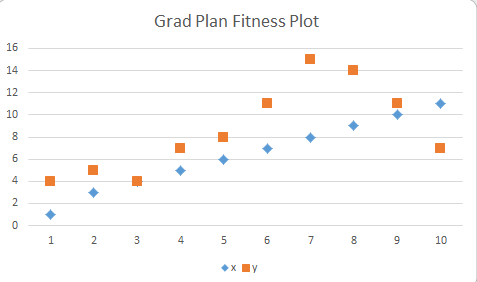
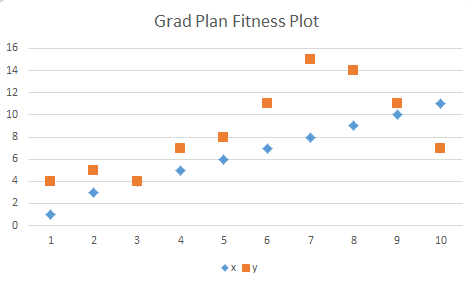
Layout changes, updated pics
Updated layout and updated pictures. Changed v1 and v2 images to remove
borders.

diff --git a/views/view2.html b/views/view2.html
@@ -1,16 +1,37 @@
 <!--view2.html-->
 
 <div id="graphs" class="row align-middle">
-    <div class="medium-12 small-12 columns" align="center">
-        <h3 >Plans Scatter Plot</h3>  
+  <div class="media-object stack-for-small">
+    <div class="media-object-section middle align-self-center"> 
+      <div class="thumbnail">
         <image src="views/pictures/fakeGraph1.png"/>
+      </div>
     </div>
-    <div class="medium-6 small-6 columns" align="center">
-        <h3>Optimum Schedule Fitness</h3>  
+    <div class="media-object-section main-section">
+      <h3 align="center">Plans Scatter Plot</h3>  
+      <p>Lorem ipsum dolor sit amet, consectetur adipiscing elit, sed do eiusmod tempor incididunt ut labore et dolore magna aliqua. Ut enim ad minim veniam, quis nostrud exercitation ullamco laboris nisi ut aliquip ex ea commodo consequat. Duis aute irure dolor in reprehenderit in voluptate velit esse cillum dolore eu fugiat nulla pariatur. Excepteur sint occaecat cupidatat non proident, sunt in culpa qui officia deserunt mollit anim id est laborum.</p>
+    </div>
+  </div>
+  <div class="media-object stack-for-small">
+    <div class="media-object-section middle">
+      <div class="thumbnail">
         <image src="views/pictures/fakeGraph2.png"/>
+      </div>
     </div>
-    <div class="medium-6 small-6 columns" align="center">
-        <h3 >Workload by quarter</h3>  
+    <div class="media-object-section main-section">
+      <h3 align="middle">Optimum Plan Fitness</h3>  
+      <p>Lorem ipsum dolor sit amet, consectetur adipiscing elit, sed do eiusmod tempor incididunt ut labore et dolore magna aliqua. Ut enim ad minim veniam, quis nostrud exercitation ullamco laboris nisi ut aliquip ex ea commodo consequat. Duis aute irure dolor in reprehenderit in voluptate velit esse cillum dolore eu fugiat nulla pariatur. Excepteur sint occaecat cupidatat non proident, sunt in culpa qui officia deserunt mollit anim id est laborum.</p>
+    </div>
+  </div>
+  <div class="media-object stack-for-small">
+    <div class="media-object-section middle">
+      <div class="thumbnail">
         <image src="views/pictures/fakeGraph3.png"/>
+      </div>
     </div>
+    <div class="media-object-section main-section">
+      <h3 align="center">Workload by Quarter</h3>  
+      <p>Lorem ipsum dolor sit amet, consectetur adipiscing elit, sed do eiusmod tempor incididunt ut labore et dolore magna aliqua. Ut enim ad minim veniam, quis nostrud exercitation ullamco laboris nisi ut aliquip ex ea commodo consequat. Duis aute irure dolor in reprehenderit in voluptate velit esse cillum dolore eu fugiat nulla pariatur. Excepteur sint occaecat cupidatat non proident, sunt in culpa qui officia deserunt mollit anim id est laborum.</p>
+    </div>
+  </div>
 </div>

diff --git a/app.js b/app.js
@@ -36,32 +36,17 @@ var optimizeApp = angular.module('optimizeApp', [
   $scope.x = $window.innerWidth
 })
 
-.directive('resizer', ['$window', function ($window) {
-    return {
-        restrict: 'A',
-        link: function (scope, elem, attrs) {      
-            angular.element($window).on('resize', function () {
-                scope.$apply(function(){
-                    scope.sidebarValue = $window.innerWidth > 640 ? true : false;
-                })
-            });
-        }
-    }
-}])
-
 .controller('alphaCtrl', function ($scope) {
   $scope.message = 'Click View 1 to view basic layout example!'
 })
 
 .controller('v1Ctrl', function ($scope, $window) {
   $scope.message = 'View1 Message!'
-  $scope.x = $window.innerWidth;
 })
 
 .controller('v2Ctrl', function ($scope) {
   $scope.message = 'View2 Message!'
   $scope.alertMessage = 'ALERTTTT!'
-  $scope.toggleValue = 'false'
 })
 
 .controller('testViewCtrl', function ($scope) {
@@ -77,4 +62,19 @@ var optimizeApp = angular.module('optimizeApp', [
     $scope.sortableOptions = {
         connectWith: '.connectedList'
     };
-});
+})
+
+// This directive dynamically checks for screen size on resize,
+// Called resizer. changes binary sidebarValue at 640px width breakpoint.
+.directive('resizer', ['$window', function ($window) {
+    return {
+        restrict: 'A',
+        link: function ($scope, elem, attrs) {      
+            angular.element($window).on('resize', function () {
+                $scope.$apply(function(){
+                    $scope.sidebarValue = $window.innerWidth > 640 ? true : false;
+                })
+            });
+        }
+    }
+}]);

diff --git a/index.html b/index.html
@@ -72,7 +72,7 @@
         <hr>
         <ul class="stacked-for-small small button-group" style="margin-left:0">
           <a href="#" data-tooltip aria-haspopup="true" class="button has-tip right" data-disable-hover="false" tabindex="1" title="Play through all iterations">Play</a>
-          <a href="#" data-tooltip aria-haspopup="true" class="button has-tip right" data-disable-hover="false" tabindex="1" title="Pause the iteration sequence" class="button">Pause</a>
+          <a href="#" data-tooltip data-options="hover_delay:5000ms" class="button has-tip right" data-disable-hover="false" tabindex="1" title="Pause the iteration sequence" class="button">Pause</a>
           <a href="#" data-tooltip aria-haspopup="true" class="button has-tip right" data-disable-hover="false" tabindex="1" title="Return to the previous iteration" class="button">Back</a>
           <a href="#" data-tooltip aria-haspopup="true" class="button has-tip right" data-disable-hover="false" tabindex="1" title="Step through to the next iteration" class="button">Next</a>        
         </ul>

diff --git a/views/view1.html b/views/view1.html
@@ -1,9 +1,17 @@
 <!--view1.html-->
 
-
-<div id="schedule" class="row columns" align="center">
-  <h2 >Your Optimum Schedule</h2>
-  <image src="views/pictures/fakeSchedule.png"/>
+<div id="schedule" class="row align-middle">
+  <div class="media-object stack-for-small">
+    <div class="media-object-section middle align-self-center"> 
+      <div class="thumbnail">
+        <image src="views/pictures/fakeSchedule.png"/>
+      </div>
+    </div>
+    <div class="media-object-section main-section">
+      <h3 align="center">Your Optimum Schedule</h3>  
+      <p>Lorem ipsum dolor sit amet, consectetur adipiscing elit, sed do eiusmod tempor incididunt ut labore et dolore magna aliqua. Ut enim ad minim veniam, quis nostrud exercitation ullamco laboris nisi ut aliquip ex ea commodo consequat. Duis aute irure dolor in reprehenderit in voluptate velit esse cillum dolore eu fugiat nulla pariatur. Excepteur sint occaecat cupidatat non proident, sunt in culpa qui officia deserunt mollit anim id est laborum.</p>
+    </div>
+  </div>
 </div>
 
 
